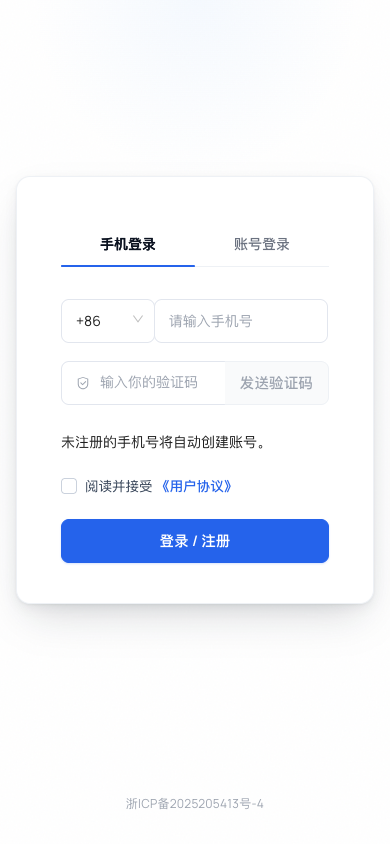
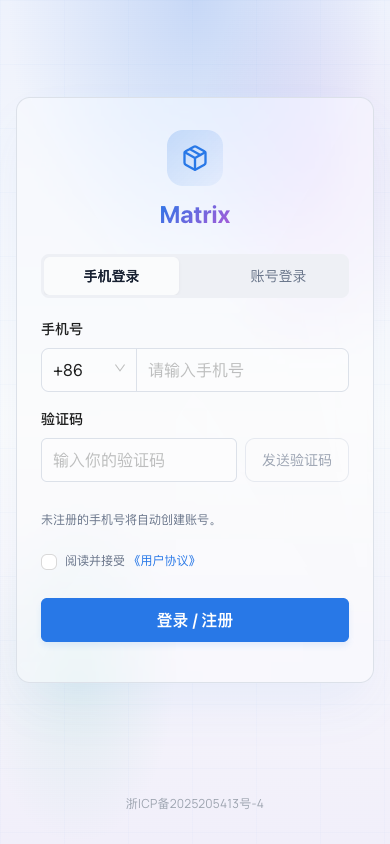
feat: 将 Matrix 登录外观迁入 Casdoor 统一入口

diff --git a/web/src/auth/MatrixLogin.less b/web/src/auth/MatrixLogin.less
@@ -1,0 +1,100 @@
+// Scoped to applications opting into unified phone authentication.
+body:has(#parent-area > main > :is(.loginBackground, .loginBackgroundDark) > .matrix-auth) {
+  --ma-primary: #2878e7;
+  --ma-text: #172031;
+  --ma-muted: #69758a;
+  --ma-border: #dce1e9;
+  --ma-surface: rgba(252, 252, 252, .5);
+  --ma-input: rgba(255, 255, 255, .35);
+  --ma-tabs: #eef0f5;
+  --ma-active: #fafbfc;
+  background: radial-gradient(ellipse 80% 60% at 50% 0%, #528ae640, transparent 60%), radial-gradient(ellipse 60% 50% at 80% 20%, #b16dd626, transparent 50%), radial-gradient(ellipse 50% 40% at 20% 80%, #55bfa51f, transparent 50%), linear-gradient(180deg, #eef2fc, #fafbfc 50%, #f1effa) !important;
+  color: var(--ma-text);
+
+  #parent-area { background: transparent !important; min-height: 100dvh; }
+  .loginBackground, .loginBackgroundDark { width: 100%; min-width: 0; background: transparent !important; }
+  #parent-area > main { align-items: center; flex: 1; }
+  #footer { background: transparent; color: var(--ma-muted); font-size: 12px; padding: 8px 16px 24px; }
+  #footer a { color: inherit; }
+}
+body:has(#parent-area > main > .loginBackgroundDark > .matrix-auth-dark) {
+  --ma-primary: #81afff;
+  --ma-text: #eef1f8;
+  --ma-muted: #9ba7bc;
+  --ma-border: #ffffff26;
+  --ma-surface: #20273580;
+  --ma-input: #ffffff08;
+  --ma-tabs: #242b39;
+  --ma-active: #394254;
+  background: radial-gradient(ellipse 80% 60% at 50% 0%, #477be533, transparent 60%), linear-gradient(180deg, #151b29, #101521 50%, #191728) !important;
+}
+.matrix-auth {
+  --ma-primary: #2878e7;
+  --ma-text: #172031;
+  --ma-muted: #69758a;
+  --ma-border: #dce1e9;
+  --ma-surface: rgba(252, 252, 252, .5);
+  --ma-input: rgba(255, 255, 255, .35);
+  --ma-tabs: #eef0f5;
+  --ma-active: #fafbfc;
+  width: 100%; min-width: 0; padding: 24px 16px; position: relative; display: flex; justify-content: center;
+  font-family: "Sora", "Noto Sans SC", system-ui, sans-serif;
+  &::before { content: ""; position: fixed; inset: 0; pointer-events: none; background-image: linear-gradient(#2878e705 1px, transparent 1px), linear-gradient(90deg, #2878e705 1px, transparent 1px); background-size: 64px 64px; }
+  .matrix-auth-panel { position: relative; width: 448px; max-width: 100%; min-width: 0; padding: 48px 24px 32px; border: 1px solid var(--ma-border); border-radius: 14px; background: var(--ma-surface); backdrop-filter: blur(12px) saturate(150%); box-shadow: 0 25px 50px -12px #2878e714; }
+  .matrix-auth-brand { display: flex; align-items: center; flex-direction: column; gap: 12px; margin-bottom: 24px; }
+  .matrix-auth-mark { width: 56px; height: 56px; border-radius: 16px; display: grid; place-items: center; background: linear-gradient(135deg, #2878e733, #2878e70d); color: var(--ma-primary); }
+  .matrix-auth-mark img { width: 36px; height: 36px; object-fit: contain; }
+  h1 { font-size: 24px; line-height: 32px; font-weight: 700; margin: 0; text-align: center; overflow-wrap: anywhere; background: linear-gradient(135deg, var(--ma-primary), #ac59d7); color: transparent; background-clip: text; }
+  .matrix-auth-form { min-height: 300px; }
+  .ant-form-item { margin-bottom: 16px; }
+  .ant-form-item-label { padding-bottom: 8px; }
+  .ant-form-item-label > label { color: var(--ma-text); font-size: 14px; font-weight: 500; height: auto; }
+  .ant-form-item-required::before { display: none !important; }
+  .ant-input, .ant-input-affix-wrapper, .ant-select-selector { background: var(--ma-input) !important; border-color: var(--ma-border) !important; color: var(--ma-text); border-radius: 6px; font-size: 14px; }
+  input.ant-input { height: 36px; }
+  .ant-input-affix-wrapper { padding: 0 11px; }
+  .ant-select-selector { height: 36px !important; align-items: center; }
+  .signin-phone .ant-input-group { display: flex; }
+  .signin-phone .ant-select { width: 96px !important; flex-shrink: 0; }
+  .signin-phone .signup-phone-input { width: auto !important; flex: 1; min-width: 0; }
+  .matrix-auth-code { display: flex; gap: 8px; }
+  .matrix-auth-code input { min-width: 0; flex: 1; }
+  .matrix-auth-code .ant-btn { height: 36px; min-width: 104px; padding: 0 12px; font-size: 14px; border-color: var(--ma-border); background: var(--ma-input); color: var(--ma-text); }
+  .matrix-auth-code .ant-btn:disabled { color: var(--ma-muted); opacity: .65; }
+  .signin-methods .ant-tabs-nav { margin-bottom: 20px; padding: 3px; background: var(--ma-tabs); border-radius: 8px; }
+  .signin-methods .ant-tabs-nav::before, .signin-methods .ant-tabs-ink-bar { display: none; }
+  .signin-methods .ant-tabs-nav-list { width: 100%; }
+  .signin-methods .ant-tabs-tab { flex: 1; justify-content: center; margin: 0; padding: 5px 8px; border-radius: 6px; color: var(--ma-muted); }
+  .signin-methods .ant-tabs-tab-active { background: var(--ma-active); box-shadow: 0 1px 3px #0000000d; }
+  .signin-methods .ant-tabs-tab-btn { font-size: 14px; }
+  .signin-methods .ant-tabs-tab-active .ant-tabs-tab-btn { color: var(--ma-text) !important; text-shadow: none; font-weight: 500; }
+  .login-forget-password { display: flex; justify-content: space-between; align-items: center; gap: 8px; margin-bottom: 16px; }
+  .login-forget-password > * { float: none !important; }
+  .login-button-box { clear: both; }
+  .login-button { width: 100%; height: 44px; background: #2878e7; border: 0; font-size: 16px; font-weight: 600; border-radius: 6px; box-shadow: 0 4px 6px #2878e71a; }
+  .phone-signup-notice { font-size: 12px; line-height: 20px; color: var(--ma-muted); margin-bottom: 12px; }
+  .ant-checkbox-wrapper { color: var(--ma-muted); font-size: 12px; }
+  a { color: var(--ma-primary); }
+  :is(input, button, a, [role="tab"]):focus-visible { outline: 2px solid var(--ma-primary); outline-offset: 3px; }
+}
+@media (max-width: 480px) {
+  .matrix-auth { padding: 16px; }
+  .matrix-auth .matrix-auth-panel { padding: 32px 24px 24px; }
+  .matrix-auth input.ant-input { font-size: 16px; height: 44px; }
+  .matrix-auth .ant-select-selector, .matrix-auth .matrix-auth-code .ant-btn { height: 44px !important; }
+  .matrix-auth .ant-tabs-tab { min-height: 38px; }
+}
+@media (prefers-reduced-motion: reduce) {
+  .matrix-auth *, .matrix-auth *::before, .matrix-auth *::after { animation: none !important; transition: none !important; }
+}
+
+.matrix-auth-dark {
+  --ma-primary: #81afff;
+  --ma-text: #eef1f8;
+  --ma-muted: #9ba7bc;
+  --ma-border: #ffffff26;
+  --ma-surface: #20273580;
+  --ma-input: #ffffff08;
+  --ma-tabs: #242b39;
+  --ma-active: #394254;
+}

diff --git a/web/src/auth/LoginPage.js b/web/src/auth/LoginPage.js
@@ -13,6 +13,7 @@
 // limitations under the License.
 
 import React, {Suspense, lazy} from "react";
+import "./MatrixLogin.less";
 import {Button, Checkbox, Col, Form, Input, Result, Spin, Tabs, message} from "antd";
 import {ArrowLeftOutlined, LockOutlined, UserOutlined} from "@ant-design/icons";
 import {withRouter} from "react-router-dom";
@@ -672,6 +673,9 @@ class LoginPage extends React.Component {
     const resultItemKey = `${application.organization}_${application.name}_${signinItem.name}`;
 
     if (signinItem.name === "Logo") {
+      if (unifiedPhoneMethod(application)) {
+        return null;
+      }
       return (
         <div key={resultItemKey} className="login-logo-box">
           <div dangerouslySetInnerHTML={{__html: ("<style>" + signinItem.customCss?.replaceAll("<style>", "").replaceAll("</style>", "") + "</style>")}} />
@@ -726,7 +730,7 @@ class LoginPage extends React.Component {
       }
 
       if (this.state.loginMethod === "verificationCodePhone") {
-        return <Form.Item className="signin-phone" required={true}>
+        return <Form.Item className="signin-phone" required={true} label={unifiedPhoneMethod(application) ? i18next.t("general:Phone") : null} htmlFor="normal_login_username">
           <Input.Group compact>
             <Form.Item
               name="countryCode"
@@ -789,7 +793,7 @@ class LoginPage extends React.Component {
           <Form.Item
             name="username"
             className="login-username"
-            label={signinItem.label ? signinItem.label : null}
+            label={signinItem.label || (unifiedPhoneMethod(application) ? i18next.t("forget:Account") : null)}
             rules={[
               {
                 required: this.state.loginMethod !== "webAuthn",
@@ -1059,6 +1063,7 @@ class LoginPage extends React.Component {
       return (
         <Form
           name="normal_login"
+          layout={unifiedPhoneMethod(application) ? "vertical" : undefined}
           initialValues={{
             organization: application.organization,
             application: application.name,
@@ -1395,7 +1400,7 @@ class LoginPage extends React.Component {
             <Form.Item
               name="password"
               className="login-password"
-              label={signinItem.label ? signinItem.label : null}
+              label={signinItem.label || (unifiedPhoneMethod(application) ? i18next.t("general:Password") : null)}
               rules={[{required: true, message: i18next.t("login:Please input your password!")}]}
             >
               <Input.Password
@@ -1415,9 +1420,11 @@ class LoginPage extends React.Component {
           <div className="login-password">
             <Form.Item
               name="code"
+              label={unifiedPhoneMethod(application) ? i18next.t("login:Verification code") : null}
               rules={[{required: true, message: i18next.t("login:Please input your code!")}]}
             >
               <SendCodeInput
+                matrixStyle={Boolean(unifiedPhoneMethod(application))}
                 disabled={this.state.username?.length === 0 || !this.state.validEmailOrPhone}
                 method={"login"}
                 onButtonClickArgs={[this.state.username, this.state.validEmail ? "email" : "phone", Setting.getApplicationName(application)]}
@@ -1442,11 +1449,12 @@ class LoginPage extends React.Component {
         <Col span={24}>
           <Form.Item
             name="code"
-            label={signinItem.label ? signinItem.label : null}
+            label={signinItem.label || (unifiedPhoneMethod(application) ? i18next.t("login:Verification code") : null)}
             rules={[{required: true, message: i18next.t("login:Please input your code!")}]}
             className="verification-code"
           >
             <SendCodeInput
+              matrixStyle={Boolean(unifiedPhoneMethod(application))}
               disabled={this.state.username?.length === 0 || !this.state.validEmailOrPhone}
               method={"login"}
               onButtonClickArgs={[this.state.username, this.state.validEmail ? "email" : "phone", Setting.getApplicationName(application)]}
@@ -1657,6 +1665,34 @@ class LoginPage extends React.Component {
     }
 
     const wechatSigninMethods = application.signinMethods?.filter(method => method.name === "WeChat" && method.rule === "Login page");
+
+    if (unifiedPhoneMethod(application)) {
+      return (
+        <section className={`matrix-auth${Setting.isDarkTheme(this.props.themeAlgorithm) ? " matrix-auth-dark" : ""}`}>
+          {Setting.renderHelmet(application)}
+          <div className="matrix-auth-panel">
+            <header className="matrix-auth-brand">
+              <div className="matrix-auth-mark">
+                {application.logo ? <img src={application.logo} alt="" /> : (
+                  <svg width="28" height="28" viewBox="0 0 24 24" fill="none" stroke="currentColor" strokeWidth="2" strokeLinecap="round" strokeLinejoin="round" aria-hidden="true">
+                    <path d="m7.5 4.27 9 5.15M21 8a2 2 0 0 0-1-1.73l-7-4a2 2 0 0 0-2 0l-7 4A2 2 0 0 0 3 8v8a2 2 0 0 0 1 1.73l7 4a2 2 0 0 0 2 0l7-4A2 2 0 0 0 21 16Z" />
+                    <path d="m3.3 7 8.7 5 8.7-5M12 22V12" />
+                  </svg>
+                )}
+              </div>
+              <h1>{application.displayName || application.name}</h1>
+            </header>
+            <div className="matrix-auth-form">{this.renderLoginPanel(application)}</div>
+            {wechatSigninMethods?.length > 0 && (
+              <div className="matrix-auth-wechat">
+                <h3>{i18next.t("provider:Please use WeChat to scan the QR code and follow the official account for sign in")}</h3>
+                <WeChatLoginPanel application={application} loginMethod={this.state.loginMethod} />
+              </div>
+            )}
+          </div>
+        </section>
+      );
+    }
 
     return (
       <React.Fragment>

diff --git a/web/src/common/SendCodeInput.js b/web/src/common/SendCodeInput.js
@@ -22,7 +22,7 @@ import {CaptchaModal} from "./modal/CaptchaModal";
 
 const {Search} = Input;
 
-export const SendCodeInput = ({value, disabled, captchaValue, useInlineCaptcha, textBefore, onChange, onButtonClickArgs, application, method, countryCode, refreshCaptcha}) => {
+export const SendCodeInput = ({id, matrixStyle = false, value, disabled, captchaValue, useInlineCaptcha, textBefore, onChange, onButtonClickArgs, application, method, countryCode, refreshCaptcha}) => {
   const [visible, setVisible] = React.useState(false);
   const [buttonLeftTime, setButtonLeftTime] = React.useState(0);
   const [buttonLoading, setButtonLoading] = React.useState(false);
@@ -97,7 +97,16 @@ export const SendCodeInput = ({value, disabled, captchaValue, useInlineCaptcha, 
 
   return (
     <React.Fragment>
-      <Search
+      {matrixStyle ? (
+        <div className="matrix-auth-code">
+          <Input id={id} value={value} disabled={disabled} inputMode="numeric" autoComplete="one-time-code"
+            placeholder={i18next.t("code:Enter your code")} onChange={e => onChange(e.target.value)} />
+          <Button htmlType="button" disabled={disabled || buttonLeftTime > 0} loading={buttonLoading} onClick={handleSearch}>
+            {buttonLeftTime > 0 ? `${buttonLeftTime} s` : buttonLoading ? i18next.t("code:Sending") : i18next.t("code:Send Code")}
+          </Button>
+        </div>
+      ) : <Search
+        id={id}
         addonBefore={textBefore}
         disabled={disabled}
         value={value}
@@ -112,7 +121,7 @@ export const SendCodeInput = ({value, disabled, captchaValue, useInlineCaptcha, 
         }
         onSearch={handleSearch}
         autoComplete="one-time-code"
-      />
+      />}
       {
         useInlineCaptcha ? null : (
           <CaptchaModal

diff --git a/docs/phone-auth-acceptance-2026-09-21.md b/docs/phone-auth-acceptance-2026-09-21.md
@@ -12,6 +12,12 @@
 - 在建号或消费验证码之前校验 OIDC 应用和回调；禁止用另一组织替换请求。
 - 修复页面预加载配置时未初始化登录方式、区号初始化触发空号码报错，以及账号密码切回手机时残留密码影响请求的问题。
 
+## Matrix 外观对齐
+
+第二阶段按“Matrix 外观、Casdoor 托管”落地。只为开启一体认证的应用增加渐变网格背景、玻璃卡片、品牌区、分段标签、字段标签与独立验证码按钮；应用名称和 Logo 从 Casdoor 配置读取。账号密码页同步使用同一外观。
+
+生产 Matrix 登录页仅作只读视觉参考。截图中的 Matrix 名称来自本地合成应用配置；没有修改生产配置、Matrix 登录入口或子应用接入方式。协议显式勾选、可选国际区号保留，增长邀请码未迁入 Casdoor。
+
 ## 环境与边界
 
 代码基线与 origin/mozia 对齐（db763bc0）。使用本机一次性 PostgreSQL 数据库，测试组织和账号均为合成数据；无生产数据库连接。HTTP 测试中的短信发送只访问 127.0.0.1 的模拟供应商，不发送真实短信。
@@ -41,10 +47,15 @@ HTTP 测试入口为 `scripts/test-phone-signin.py`；运行方式见 [使用说
 | 场景 | 结果 |
 | --- | --- |
 | 桌面默认手机入口 | 两个标签、手机号、验证码、协议和一体按钮正常；无用户名／密码注册字段 |
+| 375、390、768、1024、1440 宽度 | 文档宽度与视口一致，无横向溢出；桌面卡片 448px、小屏卡片随视口缩放 |
 | 390×844 手机页面 | 输入、发送按钮、协议及提交按钮完整展示，无横向裁切；首次进入无空号码错误 |
 | 手机页面填写号码并发码 | 实际请求本地 Casdoor，显示 60 秒倒计时 |
 | 未勾选协议提交 | 页面阻止提交并提示同意协议 |
 | 手机浏览器新用户提交 | 完成注册及回调；接收器确认 PKCE 换令牌与 nonce |
+| Matrix 外观下新手机号完整注册 | 独立发码按钮请求本地短信桩；未同意协议时阻止提交；同意后授权码回调、PKCE、nonce 通过 |
+| 深色主题与减少动态效果 | 390px 深色页面无裁切，背景及表单可见；减少动态效果时按钮 transition 为 0s |
+| 账号页布局 | 账号、密码标签及找回密码可见；登录按钮与表单同宽，不被浮动元素挤压 |
+| 关闭一体模式开关 | 原登录面板及独立注册链接恢复，新布局未渲染；检查后已恢复本地开关 |
 | 旧 /signup/oauth/authorize 链接 | 显示同一手机号表单，无单独用户名密码注册流程 |
 | 从账号页输入密码再切回手机号 | 手机验证码登录成功，未被旧密码干扰 |
 | 旧注册链接下完成已有手机号登录 | 完成授权码回调、PKCE 和 nonce 验证 |

diff --git a/docs/phone-signin-signup.md b/docs/phone-signin-signup.md
@@ -18,6 +18,14 @@
 
 关闭 `enableSignUp` 时只显示“登录”，不提示自动注册。协议沿用 Casdoor 显式勾选，未同意不提交；目前尚未增加独立协议版本留痕机制，生产前需确定记录契约。增长邀请码仍归 Matrix，本页面不加入业务奖励字段。
 
+## Matrix 外观的 Casdoor 托管页
+
+统一手机号模式采用 Matrix 当前登录页的渐变网格背景、448px 玻璃卡片、品牌图标、分段标签和独立发码按钮；小屏输入框与按钮为 44px，支持深色主题及减少动态效果偏好。样式限定在启用应用的 `.matrix-auth` 内，不改变默认关闭应用的页面。
+
+品牌使用 Casdoor 应用的 `displayName`（空时用 `name`）及 `logo`；未配置 Logo 时显示方块图标。页脚沿用现有 `footerHtml`，不把 Matrix 的业务品牌查询接入身份服务。当前采用统一居中布局，不使用旧 `formOffset`、侧图和表单外层自定义 CSS；完全自定义的 `signinHtml` 仍优先。上线前需检查目标应用是否依赖这些旧布局配置。
+
+认证表单继续使用 Casdoor 原组件，保留语言、第三方入口、MFA、验证码与授权链路。用户可见的差异是：协议需要显式勾选、国际区号仍可选择、增长邀请码留在 Matrix。后续由 Matrix 和子应用发起 OIDC 跳转进入此页面，不能仅用后端代理请求代替浏览器在 Casdoor 建立会话。
+
 ## 请求契约
 
 发码沿用 `POST /api/send-verification-code`，`type=phone`、`method=login`。启用该模式的应用允许为未知手机号发码，但关闭注册时仍拒绝未知手机号。原短信供应商、captcha 和号码验证继续使用。
